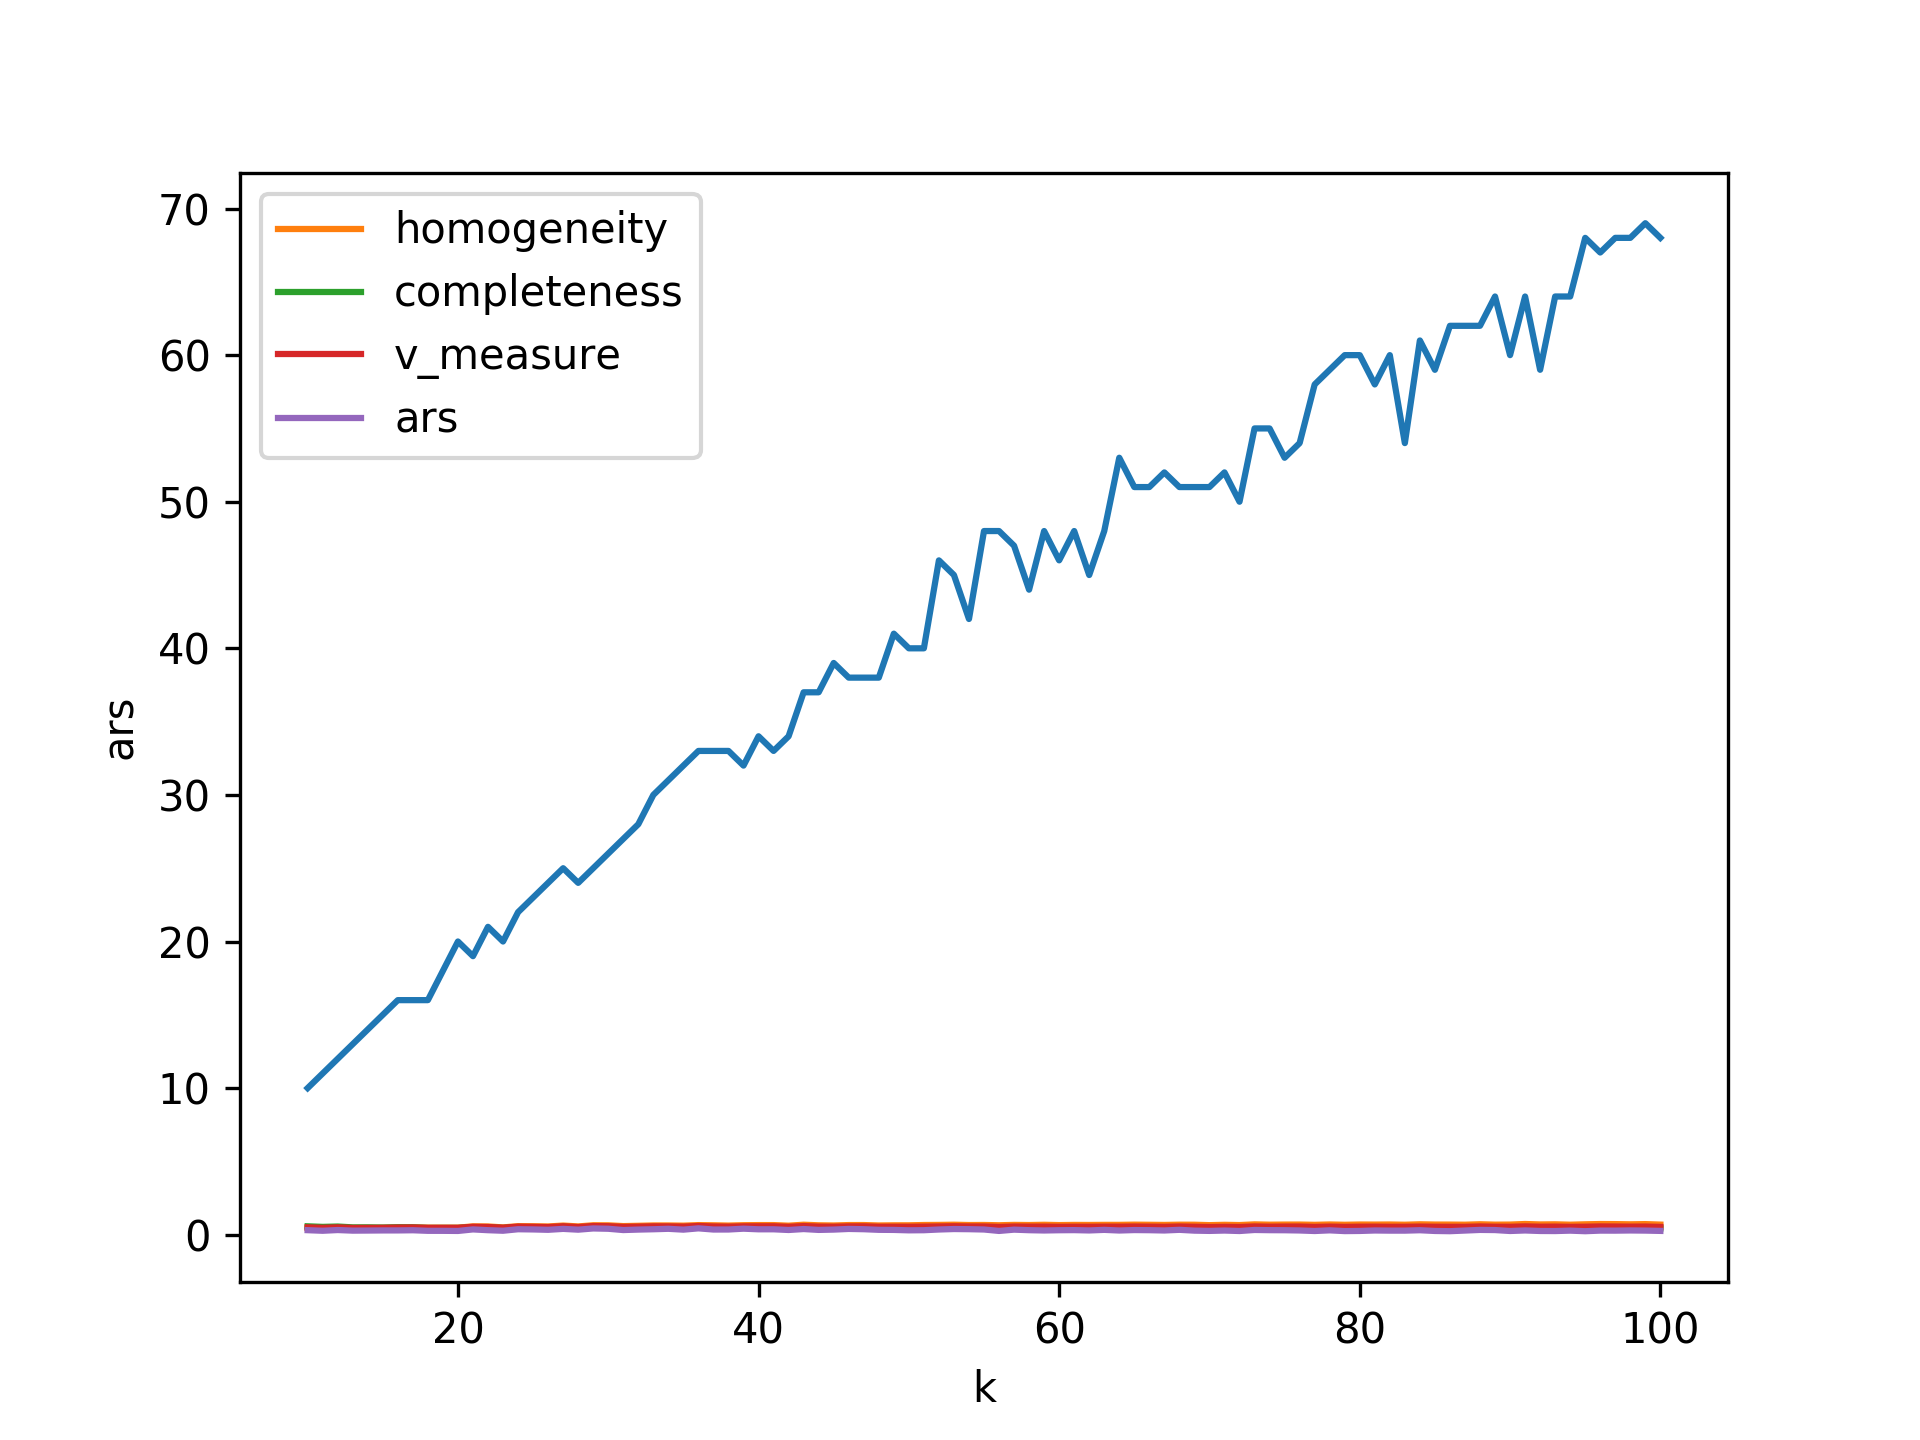
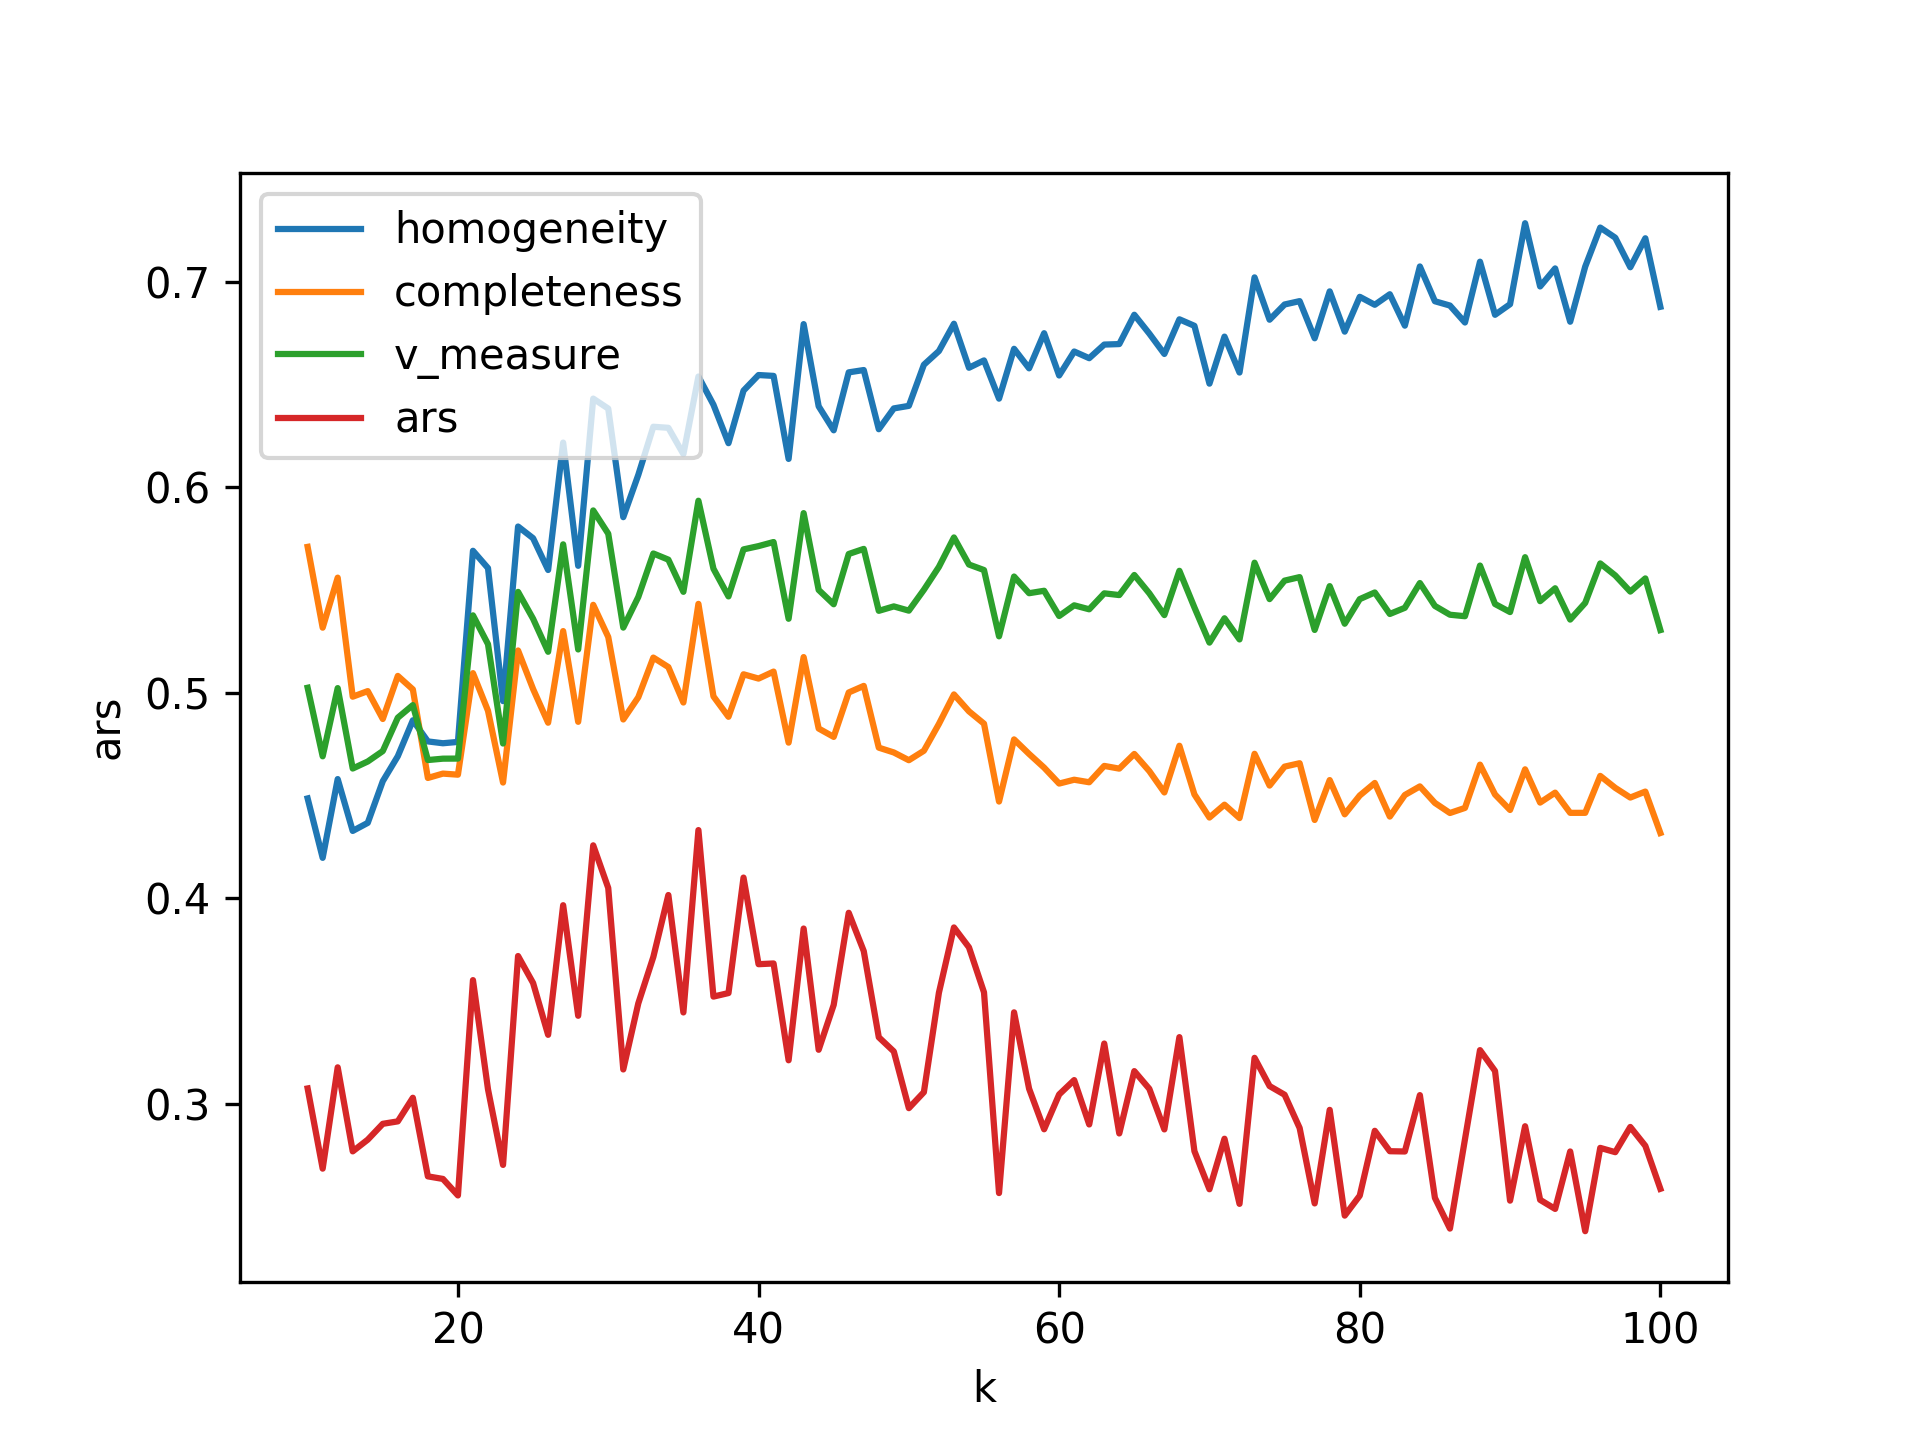
new results for size

diff --git a/scripts/exp_train_size.py b/scripts/exp_train_size.py
@@ -52,3 +52,17 @@ df['size'] = range(10000, 999, -500)
 
 co = df[['size', 'count', 'ars', 'homogeneity', 'completeness', 'v_measure']]
 co.to_csv('/home/mluser/master8_projects/clustering_vacancies/results/df_vacancies_full_clusters_results_ru_prog_size.csv', index=False)
+
+import seaborn as sns
+import matplotlib.pyplot as plt
+
+plt.clf()
+sns.lineplot(x=co['size'], y=co['count'])
+plt.savefig('/home/mluser/master8_projects/clustering_vacancies/results/plots/clustering_Aff_size_count.png', format='png', dpi=300)
+
+plt.clf()
+sns.lineplot(x=co['size'], y=co.homogeneity, label='homogeneity')
+sns.lineplot(x=co['size'], y=co.completeness, label='completeness')
+sns.lineplot(x=co['size'], y=co.v_measure, label='v_measure')
+sns.lineplot(x=co['size'], y=co.ars, label='ars')
+plt.savefig('/home/mluser/master8_projects/clustering_vacancies/results/plots/clustering_Aff_size_metrics.png', format='png', dpi=300)

diff --git a/scripts/exp_k_param.py b/scripts/exp_k_param.py
@@ -59,6 +59,7 @@ plt.clf()
 sns.lineplot(x=co.k, y=co['count'])
 plt.savefig('/home/mluser/master8_projects/clustering_vacancies/results/plots/clustering_KMeans_k_count.png', format='png', dpi=300)
 
+plt.clf()
 sns.lineplot(x=co.k, y=co.homogeneity, label='homogeneity')
 sns.lineplot(x=co.k, y=co.completeness, label='completeness')
 sns.lineplot(x=co.k, y=co.v_measure, label='v_measure')
